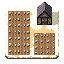
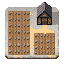
feat: retune plantation field gradients for map harmony (#3961)
Update SPEC + plantation PNGs + golden strip to match PO-approved hand-painted field means.

diff --git a/app/test/plains_plantation_terrain_goldens_test.dart b/app/test/plains_plantation_terrain_goldens_test.dart
@@ -25,10 +25,10 @@ import 'ct_region_map_test_support.dart';
 
 /// PIL field mid-tones from SPEC/ui/layered-terrain-rendering.md.
 const _plantationFieldMidTones = <String, (int, int, int)>{
-  'tile_plains_sugar_cane': (124, 179, 66),
+  'tile_plains_sugar_cane': (109, 137, 77),
   'tile_plains_tobacco': (128, 108, 42),
-  'tile_plains_cotton': (214, 208, 178),
-  'tile_plains_spices': (196, 98, 42),
+  'tile_plains_cotton': (181, 179, 173),
+  'tile_plains_spices': (149, 102, 59),
 };
 
 const _owPlainsKeys = <String>[

diff --git a/SPEC/ui/layered-terrain-rendering.md b/SPEC/ui/layered-terrain-rendering.md
@@ -46,9 +46,9 @@ The map renderer draws terrain in **three passes**:
   - **Draw order:** L1 **first** draws the **same canonical interior plains** Wang upper-base tile used for a non-resource interior plains cell (`sea_plains` atlas), **then** draws the selected `tile_plains_*` image with normal alpha blending (`srcOver`). Transparent pixels in the overlay must reveal that plains base—not the empty canvas (which would read as black).
   - Any other `resourceId` (or null) keeps a single draw of the canonical plains base tile (no overlay variant).
   - Desert never uses these plains variant keys.
-  - **Plantation pipeline (Refs #3961):** One shared 64×64 PixelLab Pixflux plantation base (`pytool/assets/terrain/tile_plains_plantation_base.png`; prompt below). Shipped overlays today use `pytool/recolour_plains_plantation_tiles.py` (luminance-preserving mid-tone recolour of yellow-green field pixels; buildings/soil/path/alpha unchanged). **PO sample gate (in progress):** subtler sugar_cane / cotton / spices fields must use hand-painted field gradients via `pytool/paint_plains_plantation_field_gradients.py` (3 candidates/crop under `pytool/assets/terrain/plantation_field_candidates_3961/`); tobacco stays; final SPEC mid-tones + shipped PNGs update only after PO locks a letter per crop (`--promote`).
+  - **Plantation pipeline (Refs #3961):** One shared 64×64 PixelLab Pixflux plantation base (`pytool/assets/terrain/tile_plains_plantation_base.png`; prompt below). Shipped overlays today use `pytool/recolour_plains_plantation_tiles.py` (luminance-preserving mid-tone recolour of yellow-green field pixels; buildings/soil/path/alpha unchanged). **PO-approved hand-painted fields:** sugar_cane / cotton / spices shipped from `paint_plains_plantation_field_gradients.py --promote` via `finalize_plantation_field_retune_3961.py`; tobacco unchanged. `recolour_plains_plantation_tiles.py` is legacy pre-retune only.
   - **Pixflux base prompt (verbatim):** `64x64 pixel art colonial plantation terrain overlay, rectangular crop fields with horizontal till rows filling most of the tile, two small wooden plantation buildings with dark peaked roofs at the back, sparse green grass patches at field edges, top-down slightly isometric colonial strategy game style matching farm terrain tiles like grain fields with cottages, limited earthy palette, clean silhouette, transparent background`
-  - **PIL field mid-tones (shipped until PO lock):** sugar_cane `(124,179,66)`; tobacco `(128,108,42)`; cotton `(214,208,178)`; spices `(196,98,42)`.
+  - **Field mask mean RGB (hand-painted, PO-approved):** sugar_cane `(109,137,77)`; tobacco `(128,108,42)`; cotton `(181,179,173)`; spices `(149,102,59)`.
 
 ### Layer 2+: Terrain Features (Overlay)
 
